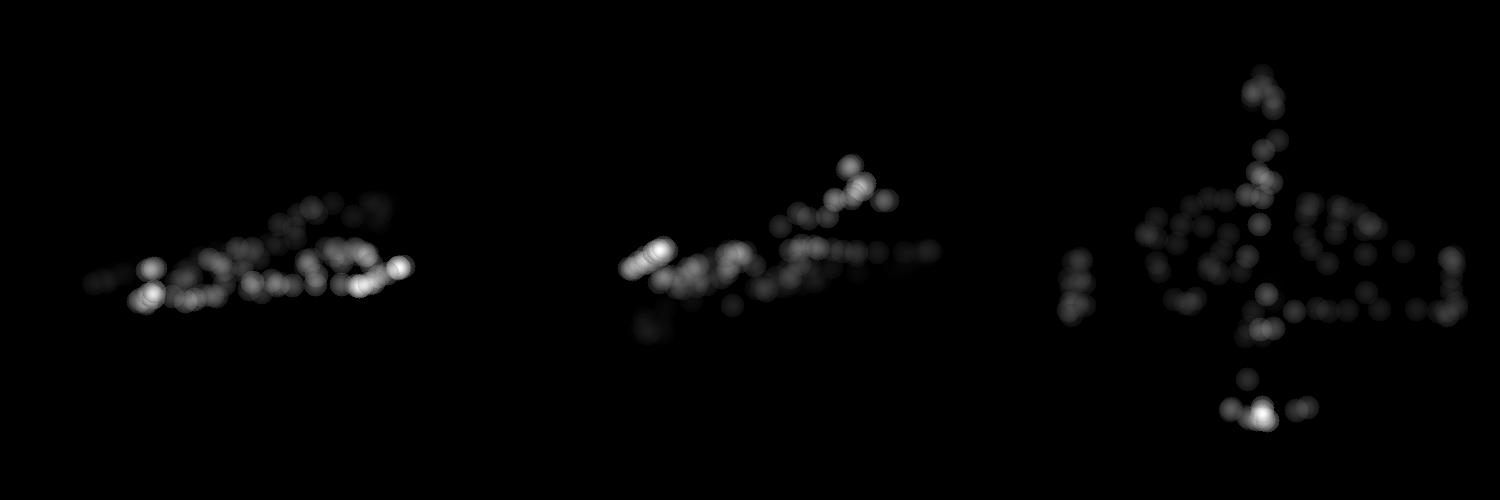
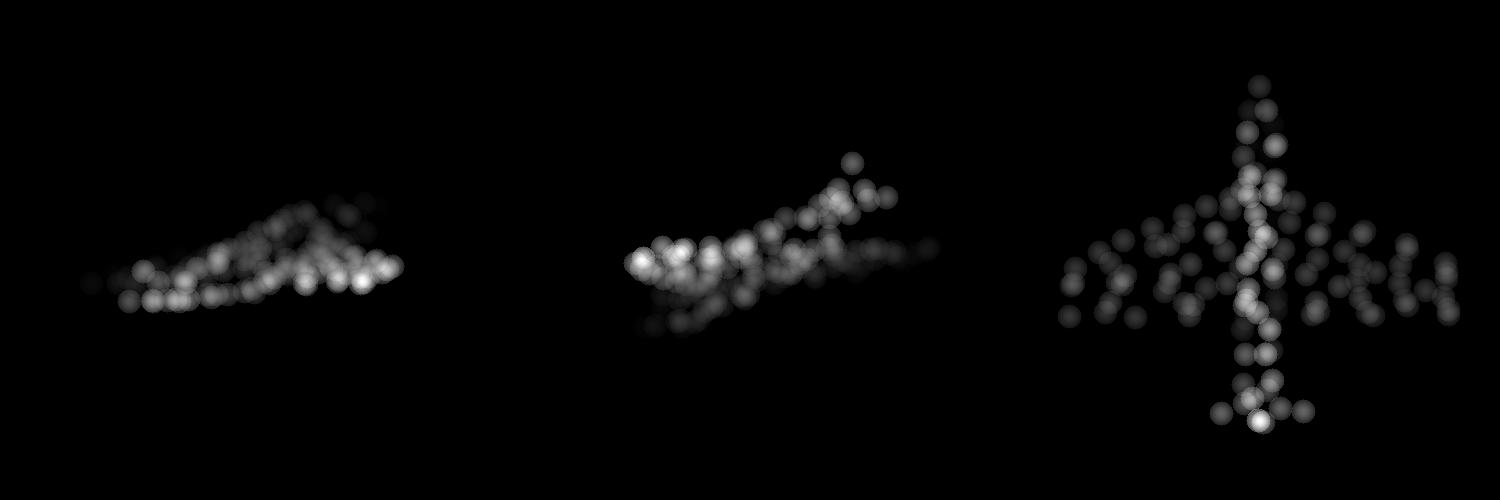
update final version

Changed region(s): [[0.7053, 0.15, 0.9813, 0.87], [0.3987, 0.3, 0.6133, 0.66], [0.0613, 0.39, 0.276, 0.63]]

diff --git a/models/pointnet_util.py b/models/pointnet_util.py
@@ -8,6 +8,7 @@ from visualizer.pc_utils import point_cloud_three_views
 from .grid_gcn_final import RVS, CAS, VoxelModule
 
 '''Universal Setting'''
+PRESORT_FLAG = True
 PARALLEL_OPTION = True
 SAVE_COMPUTATION_TWO_AXIS = False
 VISUALIZE = True
@@ -28,7 +29,6 @@ def normalization(points):
     for i in range(size[0]): # batch
         xyz_max = torch.max(points[i,:,:], 0)
         xyz_min = torch.min(points[i,:,:], 0)
-        
         xyz[i] = (points[i,:,:]-xyz_min.values)/(xyz_max.values-xyz_min.values)
         
     return xyz
@@ -579,7 +579,7 @@ class PointNetSetAbstractionMsg(nn.Module):
             K = self.nsample_list[i]
             
             if points is not None:
-                if TEST_DIMSORT:
+                if PRESORT_FLAG:
                     permu_list = torch.randperm(N)
                     permuted_xyz = xyz[:, permu_list, :]
                     permuted_points = points[:, permu_list, :]
@@ -595,7 +595,7 @@ class PointNetSetAbstractionMsg(nn.Module):
                     grouped_xyz -= new_xyz.view(B, S, 1, C)
                     grouped_points = torch.cat([grouped_points, grouped_xyz], dim=-1) 
             else:
-                if TEST_DIMSORT:
+                if PRESORT_FLAG:
                     grouped_xyz = index_points_query_ball(radius, K, xyz, new_xyz, centroid_index)
                 else:
                     group_idx = query_ball_point(radius, K, xyz, new_xyz)

diff --git a/test_partseg.py b/test_partseg.py
@@ -11,7 +11,7 @@ import sys
 import importlib
 from tqdm import tqdm
 import numpy as np
-from models.pointnet_util import pcloud_sort, TEST_DIMSORT, VISUALIZE
+from models.pointnet_util import pcloud_sort, PRESORT_FLAG, VISUALIZE
 from PIL import Image
 from visualizer.pc_utils import point_cloud_three_views
 from time import time
@@ -111,9 +111,8 @@ def main(args):
                 points = torch.load("./test_point_batch.pt", map_location=torch.device('cpu'))
                 label = torch.load("./test_label_batch.pt", map_location=torch.device('cpu'))
                 target = torch.load("./test_target_batch.pt", map_location=torch.device('cpu'))
-            if TEST_DIMSORT:
-                # points, target = pcloud_sort(points, target, sel_dim = 0)
-                pass
+            if PRESORT_FLAG:
+                points, target = pcloud_sort(points, target, sel_dim = 0)
             if VISUALIZE:
                 # print("save original PD")
                 im_array = point_cloud_three_views(points.numpy()[0, :, :])
